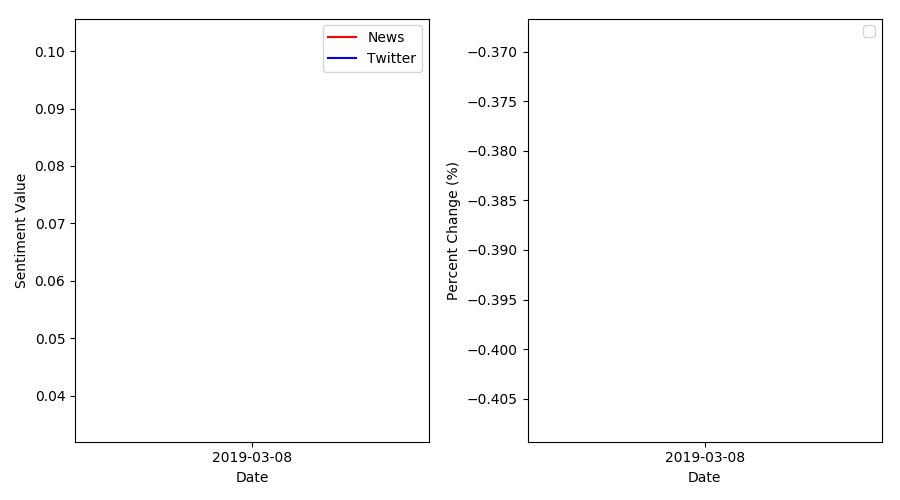
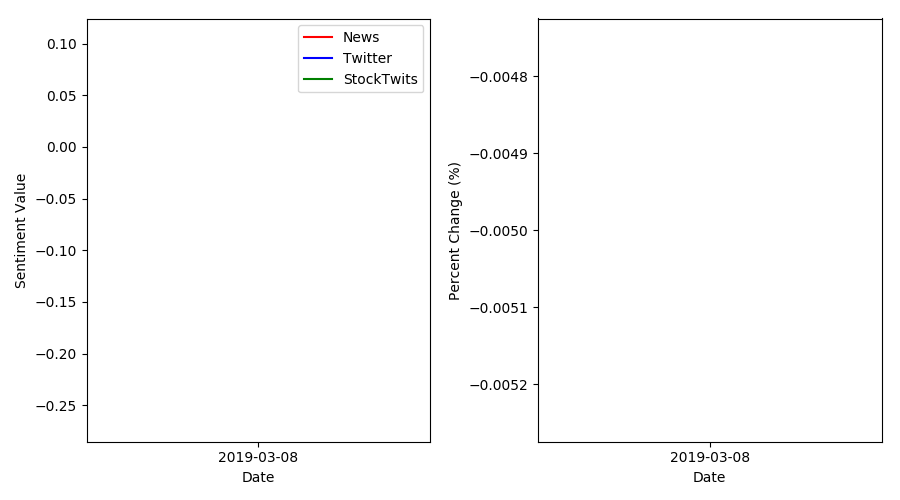
plotting works for stockTwits now

diff --git a/plot.py b/plot.py
@@ -11,12 +11,14 @@ def singleStockLineGraph(data):
     dates = []
     news_sent = []
     twitter_sent = []
+    stockTwits_sent = []
     percent_change = []
     for entry in data:
-        dates.append(entry[4])
+        dates.append(entry[5])
         twitter_sent.append(entry[1])
         news_sent.append(entry[2])
-        percent_change.append(entry[3])
+        stockTwits_sent.append(entry[3])
+        percent_change.append(entry[4])
 
     # close any figure that may be open
     plt.close()
@@ -28,6 +30,7 @@ def singleStockLineGraph(data):
     plt.subplot(1, 2, 1)
     plt.plot(dates, news_sent, 'r-', label="News")
     plt.plot(dates, twitter_sent, 'b-', label="Twitter")
+    plt.plot(dates, stockTwits_sent, 'g-', label="StockTwits")
     plt.ylabel('Sentiment Value')
     plt.xlabel("Date")
     plt.xticks(dates)
@@ -36,7 +39,7 @@ def singleStockLineGraph(data):
 
     # create percent change subplot
     plt.subplot(1, 2, 2)
-    plt.plot(dates, percent_change, 'g-')
+    plt.plot(dates, percent_change, 'k-')
     plt.ylabel('Percent Change (%)')
     plt.xlabel('Date')
     plt.xticks(dates)

diff --git a/update.py b/update.py
@@ -74,7 +74,7 @@ def getIndexData(json_file):
 
 # when the file is called, will update both tables and plots
 if __name__ == "__main__":
-    insertData('DOW30')
+    #insertData('DOW30')
     #insertData('NASDAQ100')
-    #updateIndexPlots('DOW30')
+    updateIndexPlots('DOW30')
     #updateIndexPlots('NASDAQ100')
